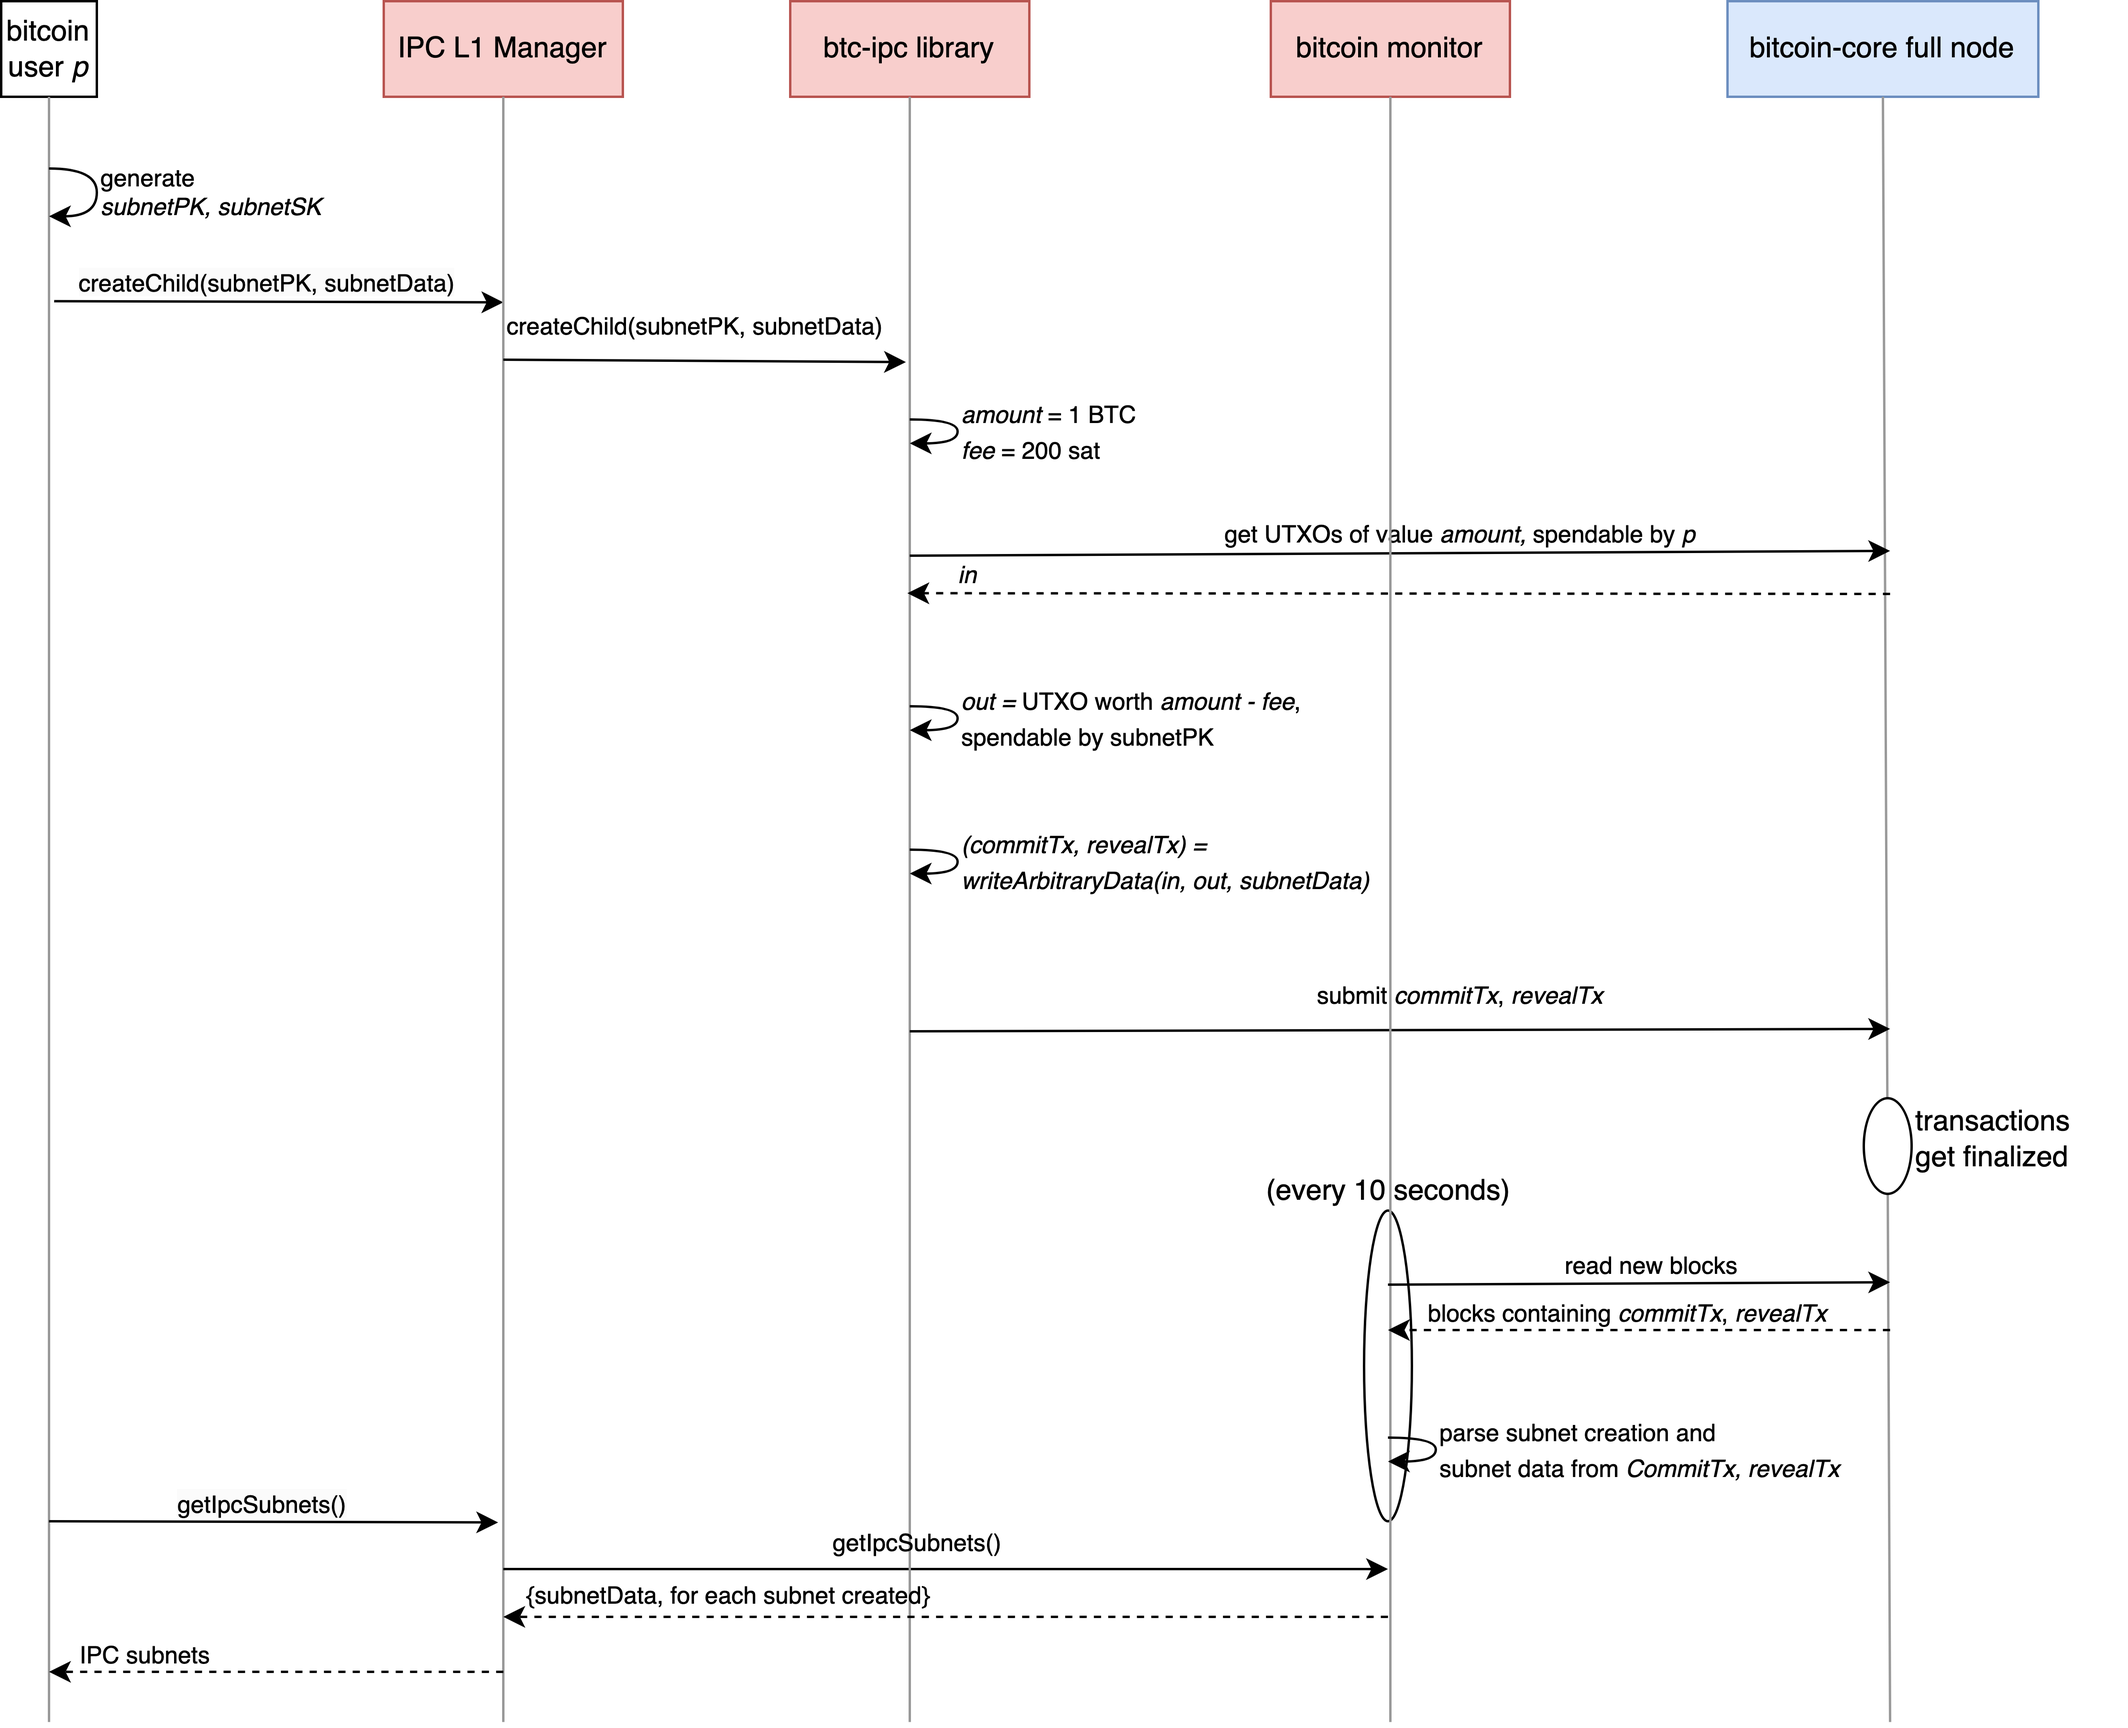
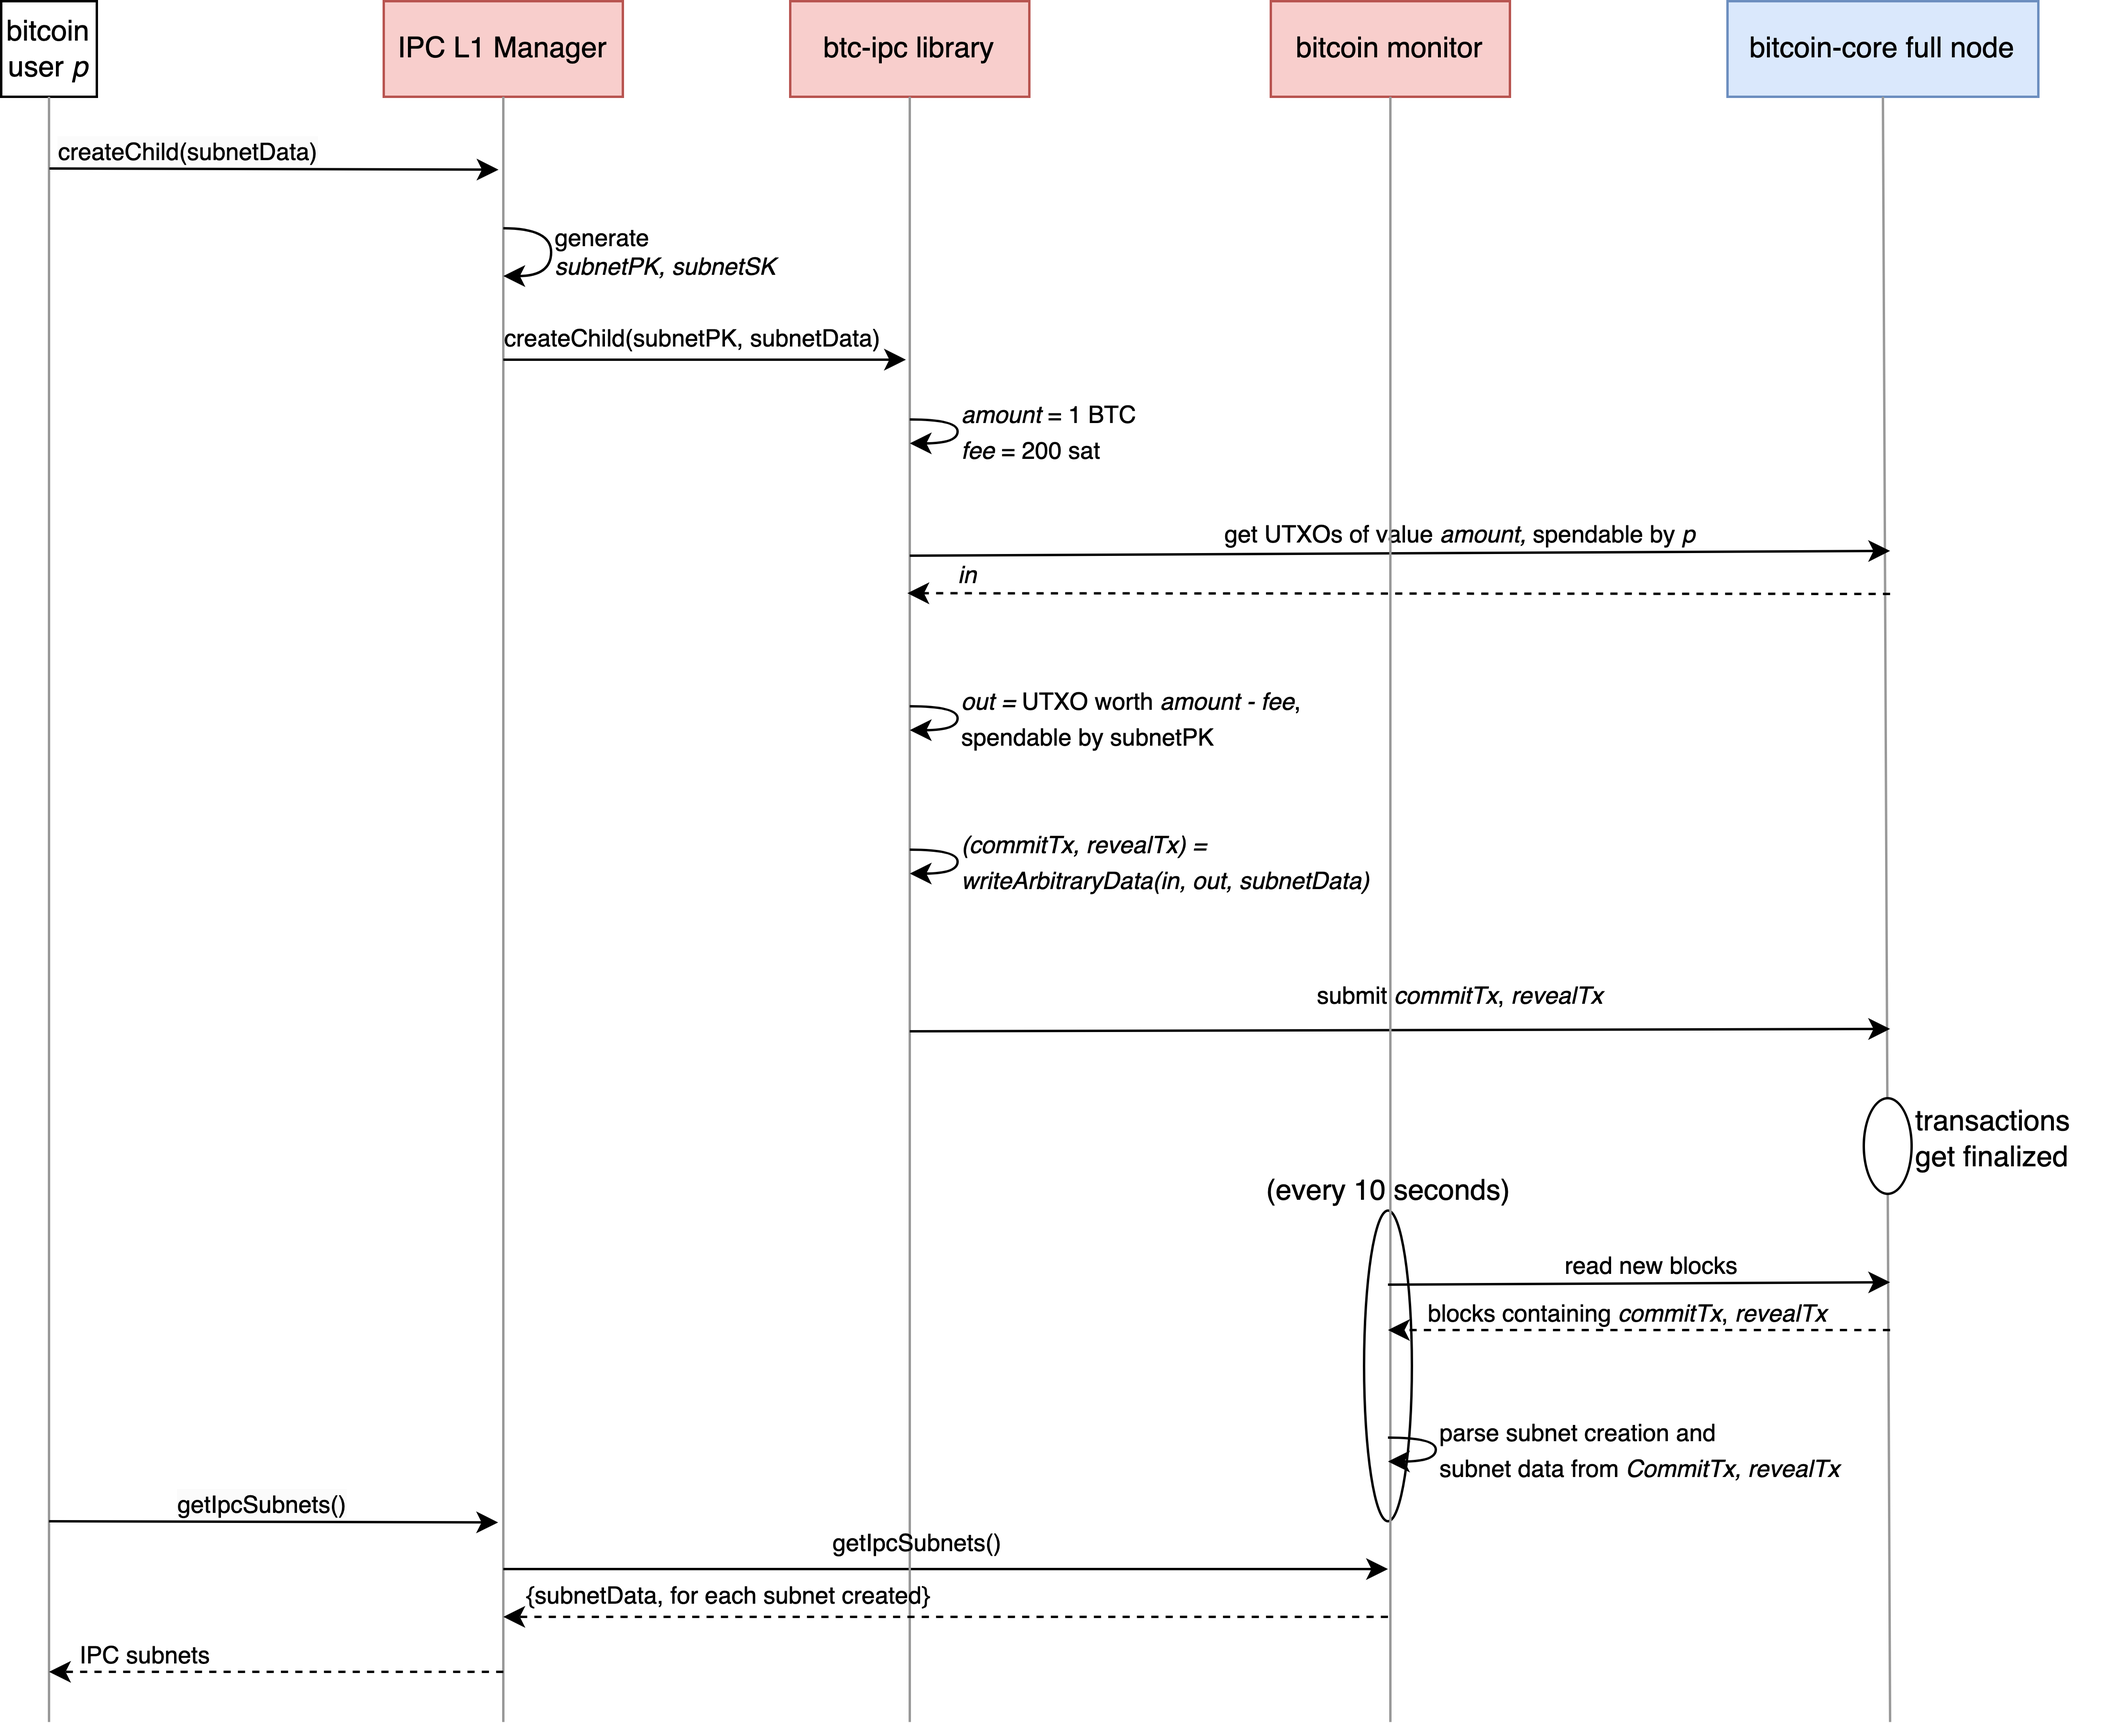
add description for manually running the demo, add details on docs

Changed region(s): [[0.0312, 0.1549, 0.4373, 0.2169], [0.0312, 0.062, 0.1562, 0.1239], [0.2499, 0.1239, 0.3124, 0.1549]]

diff --git a/docs/specs/transactions.md b/docs/specs/transactions.md
@@ -1,20 +1,23 @@
 ## Attach arbitrary data to bitcoin transactions
 This will be done using the taproot script-path.
 
-We model this as a functionality **txWithArbitraryData(in, out, data**), where *in* and *out* are the input and output UTXOS, respectively, and *data* some arbitrary data. The functionality does the following:
+We model this as a functionality **writeArbitraryData(in, out, data**), where *in* and *out* are the input and output UTXOS, respectively, and *data* some arbitrary data. The functionality is implemented by **two** bitcoin transactions. Specifically:
 - Create a script containing *data*.
-- Create a first Bitcoin transaction that spends the UTXO(s) *in* and creates an output UTXO *temp* that contains a hash of the script.
-- Create a second bitcoin transaction that spends *temp* by revealing the content of the script as the *witness,* and outputs *out* as the output UTXO. (Observe that *data* is submitted with a lower transaction fee as witness)
+- Create **commitTx**, the first Bitcoin transaction, that spends the UTXO(s) *in* and creates an output UTXO *temp* that contains a hash of the script.
+- Create **revealTx**, the second bitcoin transaction, that spends *temp* by revealing the content of the script as the *witness,* and outputs *out* as the output UTXO.
+    - Observe that *data* is submitted with a lower transaction fee as witness.
 - These two bitcoin transactions are submitted to Bitcoin by the same entity.
 
+We will be using the **writeArbitraryData()** functionality to implement IPC commands such as *createChild* and *joinChild*.
+
 ## Create child subnet
-We model this as a functionality *createChild(subnetPK, subnetData)*:
+We model this as a functionality *createChild(subnetData)*:
 
 - *subnetData* contains the following data:
     - A known tag that this transaction is about creating a new IPC Subnet.
     - The subnet name
     - Possibly more arbitrary data
-- The functionality will be implemented using the *txWithArbitraryData(in, out, data)* functionality, where:
+- The functionality will be implemented using the *writeArbitraryData(in, out, data)* functionality, where:
     - *in*: UTXO(s) spendable by the wallet that submits *createChild()*
     - *out*: a UTXO with some amount locked by *subnetPK*, which will be used to pay the transactions fees in later stages.
     - *data*: *subnetData*
@@ -22,11 +25,12 @@ We model this as a functionality *createChild(subnetPK, subnetData)*:
 Here is the flow of a subnet creation.
 ![Create Subnet](../diagrams/create-subnet.png)
 
+Observe in the diagram that *subnetPK* is computed locally at the machine of the process that submits the *createChild()* command. In later stages this will be replaced by an interactive protocol. See `subnet-pk.md` for more explanation.
 
 ## Join subnet
 We model this as a functionality *joinChild(subnetPK, validatorData)*:
 - *validatorData* contains validator’s info, such as their IP, to allow discovery from other validators of the subnet
-- The transaction will be submitted using the *txWithArbitraryData(in, out, data)* functionality, where:
+- The transaction will be submitted using the *writeArbitraryData(in, out, data)* functionality, where:
     - *in*: UTXO(s) spendable by the node that wants to become a validator
     - *out*: a UTXO with collateral BTC locked by *subnetPK*
     - *data*: *validatorData*

diff --git a/README.md b/README.md
@@ -119,7 +119,7 @@ This guide will walk you through the necessary steps needed to setup the environ
 
 
 
-## Running the demo
+## Running the demo using the automated scripts
 
 - On MacOS run the following command:
 ```sh
@@ -131,33 +131,41 @@ This guide will walk you through the necessary steps needed to setup the environ
 ./scripts/demo_ubuntu.sh 
 ```
 
-This will run `bitcoind`, `btc_monitor`, the `l1_manager` and it will open a `subnet_interactor` terminal for every existing subnet that has the required number of validators.
+This will run `bitcoind`, `btc_monitor`, the `l1_manager`, and it will open a `subnet_interactor` terminal for every existing subnet.
 
-Additionally, when interacting with the `l1_manager`, after enough validators join a subnet, you can run the `subnet_interactor` for that subnet by exectuing
+
+## Running the demo manually
+1. Make sure you have started the `bitcoin core` client 
+
 ```sh
-cargo run --bin subnet_interactor -- --subnet-name=<subnet_name>
+bitcoind --printtoconsole --regtest --maxtxfee=50 --mintxfee=0.001
 ```
 
-Launch a relayer manually by following step 8. to checkpoint a certain subnet state on the L1.
+2. Start `btc_monitor`
+```sh
+cargo run --bin btc_monitor
+```
 
-- Run a relayer that submits checkpoint transactions for a subnet periodically 
+3. Run the `l1_manager` binary to interact with L1 IPC
+```sh
+cargo run --bin l1_manager
+```
+
+4. Run the `subnet_interactor` binary to interact with a child subnet.
+```sh
+cargo run --bin subnet_interactor -- --subnet-name <subnet_name> 
+```
+
+5. Run a relayer that submits checkpoint transactions for a subnet periodically 
 ```sh
 cargo run --bin relayer -- --subnet-name <subnet_name>
 ```
 
 ## Interacting with the L1 Manager
+After the L1 Manager has been started, either using a script or manually, you can interact with it as follows:
 
 1. Press 1 to Read the state where all subnets are listed.
 
 2. Press 2 to create a child subnet, enter the name, required number of validators and a collateral (in satoshi) prompts.
 
 3. Press 3 to join a subnet, first pick a subnet to join, then enter the prompts (ip address, validator public key and username) and watch the btc_monitor.
-
-## Running the subnet interactor
-
-1. Run the subnet_interactor binary to interact with a child subnet.
-
-```sh
-cargo run --bin subnet_interactor -- --subnet-name <subnet_name> 
-```
-2. Interact with the subnet by calling the commands presented on the terminal.

diff --git a/docs/specs/architecture.md b/docs/specs/architecture.md
@@ -1,12 +1,12 @@
-Please make sure you read `scope-of-work.md` first, so as to get familiar with the goal, structure, assumptions of this project, and terminology such as `createChild`, `joinChild`, `transfer`, `propagate`, `deposit`, `withdraw`, `postBox`
 
+# Software stack on an IPC-aware node
 **Definition:**
 An *IPC-aware node* is a bitcoin full node with IPC integration, i.e., that supports viewing, creating, and joining existing IPC subnets on Bitcoin.
 
-
-# Software stack on an IPC-aware node
-An IPC-aware node runs all the following modules.
 ![IPC-aware node](../diagrams/ipc-aware-node.png)
+
+An IPC-aware node runs all the following modules.
+
 
 ## Bitcoin full node
 A bitcoin node must be available to connect to over RPC. This can be either a local node running Bitcoin Core or a public bitcoin full node.
@@ -40,7 +40,7 @@ Hence, the interface of the Subnet Simulator looks like the following (described
 - withdraw()
 - get_checkpoint()
 
-As the Subnet Simulator is the only point in the architecture where the `SubnetState` is help, it is responsible to returning the state to be checkpointed. This is facilitated by the `get_checkpoint()` method.
+As the Subnet Simulator is the only point in the architecture where the `SubnetState` is help, it is responsible to return the state to be checkpointed. This is facilitated by the `get_checkpoint()` method.
 
 ## Relayer
 It is responsible for monitoring all IPC subnets and relaying necessary information to bitcoin.
@@ -58,7 +58,7 @@ The Subnet Interactor is not mandatory on an IPC-aware node.
 It allows the users of a subnet to interact with it.
 
 The Subnet Interactor connects to all the validators of the subnet in order to submit subnet-related commands.
-Similar to what we describe with the Relayer, in the initial stages, where the subnet is instantiated by a `Subnet Simulator` running locally (see `scope-of-work.md`), the Subnet Interactor only uses the interface of the `Subnet Simulator`.
+Similar to what we describe with the Relayer, in the initial stages where the subnet is instantiated by a `Subnet Simulator` running locally, the Subnet Interactor only uses the interface of the `Subnet Simulator`.
 In later stages, when the Fendermint node will be used to instantiate a subnet, the Subnet Interactor will actually connect to all subnet validators.
 
 

diff --git a/docs/specs/scope-of-work.md b/docs/specs/scope-of-work.md
@@ -72,8 +72,8 @@ It contains the following deliverables:
 - Definition for a *Subnet Multisig*: A Bitcoin script that requires the signature from some specified keys in order to spend a UTXO. We refer to this set of keys as *subnetPK*. For the first stage, only a signature from one key will be required. This key is controlled by the the Simulator for subnet *A*.
 >  **See `subnet-pk.md` for a more precise definition of `subnetPK`.**
 
-- Implement functionality *txWithArbitraryData()* to attach arbitrary data on a Bitcoin transaction.
->  **See `transactions.md` for the definition of txWithArbitraryData().**
+- Implement functionality *writeArbitraryData()* to attach arbitrary data on a Bitcoin transaction.
+>  **See `transactions.md` for the definition of writeArbitraryData().**
 
 - Definitions for the following Bitcoin transactions:
     - *createChild()* can be created by anyone who wants to create a subnet (doesn’t have to be a validator on the new subnet).
@@ -108,7 +108,7 @@ It contains the following deliverables:
 
 ### Step 4: Transfer funds from subnet *A* to subnet *B* 
 - Definition of a Bitcoin *Propagate(A, B, Transfers[])* transaction:
-    - The transaction will be submitted using the *txWithArbitraryData(in, out, data)* functionality, where:
+    - The transaction will be submitted using the *writeArbitraryData(in, out, data)* functionality, where:
         - *in*: **UTXO(s) spendable by *A*
         - *out*: **a UTXO locked with the *subnetPK* of *B,* with the total amount to be transferred
         - *data*: **it contains the destination subnet and information about the transfers to be made: the amounts and the destination addresses.

diff --git a/docs/demo/demo.md b/docs/demo/demo.md
@@ -1,0 +1,2 @@
+## Videos
+[See here](https://drive.google.com/drive/folders/1B0xxTu3_N2V1WrCphkEK6UrU0kPMks6y?usp=drive_link)
